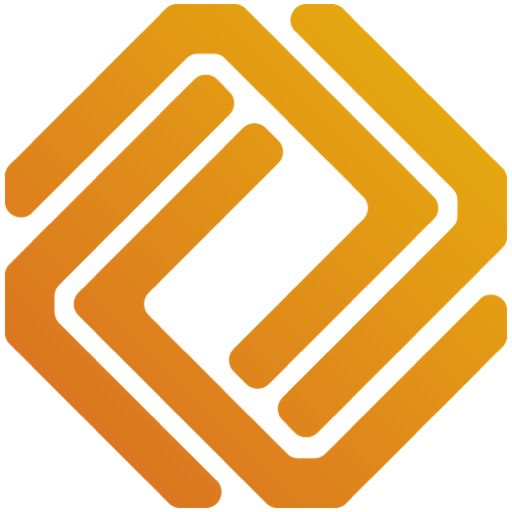
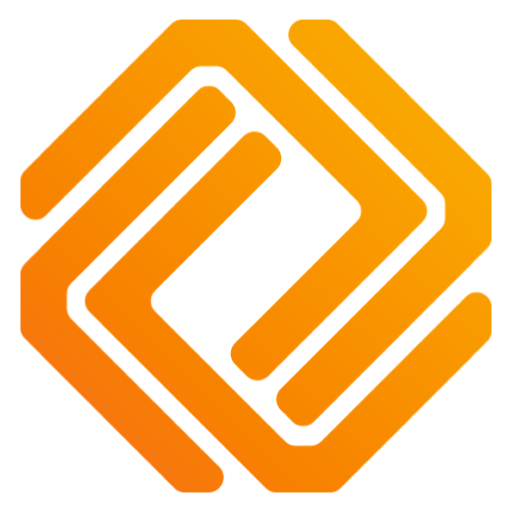
feat: icone isolado no topo, icones adaptativos modo claro/escuro para PWA e notificacoes web em PNG

diff --git a/index.html b/index.html
@@ -9,10 +9,17 @@
     <meta name="apple-mobile-web-app-capable" content="yes" />
     <meta name="apple-mobile-web-app-status-bar-style" content="black-translucent" />
     <title>CONSTRUTEC ERP — Construção e reformas em geral</title>
-    <link rel="icon" type="image/png" sizes="32x32" href="/favicon-32x32.png" />
-    <link rel="icon" type="image/png" sizes="192x192" href="/icon-192.png" />
-    <link rel="apple-touch-icon" sizes="180x180" href="/apple-touch-icon.png" />
+    <!-- Favicons adaptativos para navegadores (Safari, Chrome, Firefox) -->
+    <link rel="icon" id="favicon-32" type="image/png" sizes="32x32" href="/favicon-dark-32x32.png" />
+    <link rel="icon" type="image/png" sizes="32x32" href="/favicon-light-32x32.png" media="(prefers-color-scheme: light)" />
+    <link rel="icon" type="image/png" sizes="32x32" href="/favicon-dark-32x32.png" media="(prefers-color-scheme: dark)" />
+    <link rel="icon" type="image/png" sizes="192x192" href="/icon-192-transparent.png" />
     <link rel="icon" type="image/svg+xml" href="/favicon.svg" />
+
+    <!-- Ícone PWA e Apple Touch Icon adaptativo (Branco no Modo Claro / Preto no Modo Escuro) -->
+    <link rel="apple-touch-icon" id="apple-touch-icon" sizes="180x180" href="/apple-touch-icon-dark.png" />
+    <link rel="apple-touch-icon" sizes="180x180" href="/apple-touch-icon-light.png" media="(prefers-color-scheme: light)" />
+    <link rel="apple-touch-icon" sizes="180x180" href="/apple-touch-icon-dark.png" media="(prefers-color-scheme: dark)" />
     <link rel="manifest" href="/manifest.json" />
     <link rel="preconnect" href="https://fonts.googleapis.com" />
     <link rel="preconnect" href="https://fonts.gstatic.com" crossorigin />
@@ -36,7 +43,15 @@
           }
           var metaTheme = document.querySelector('meta[name="theme-color"]');
           if (metaTheme) {
-            metaTheme.content = dark ? '#111A24' : '#F8FAFC';
+            metaTheme.content = dark ? '#111A24' : '#FFFFFF';
+          }
+          var appleTouch = document.getElementById('apple-touch-icon');
+          if (appleTouch) {
+            appleTouch.href = dark ? '/apple-touch-icon-dark.png' : '/apple-touch-icon-light.png';
+          }
+          var fav32 = document.getElementById('favicon-32');
+          if (fav32) {
+            fav32.href = dark ? '/favicon-dark-32x32.png' : '/favicon-light-32x32.png';
           }
         } catch (e) {}
       }

diff --git a/src/lib/notifications.ts b/src/lib/notifications.ts
@@ -19,17 +19,27 @@ export const requestNotificationPermission = async (): Promise<NotificationPermi
   }
 };
 
+const getNotificationAssets = () => {
+  const origin = typeof window !== 'undefined' && window.location?.origin ? window.location.origin : '';
+  return {
+    icon: origin ? `${origin}/icon-192-transparent.png` : '/icon-192-transparent.png',
+    badge: origin ? `${origin}/favicon-32x32.png` : '/favicon-32x32.png',
+  };
+};
+
 export const sendNotification = async (title: string, options?: NotificationOptions) => {
   if (!isNotificationSupported()) return;
   if (Notification.permission !== 'granted') return;
+
+  const { icon, badge } = getNotificationAssets();
 
   try {
     if ('serviceWorker' in navigator) {
       const reg = await navigator.serviceWorker.ready;
       if (reg && reg.showNotification) {
         await reg.showNotification(title, {
-          icon: '/favicon.svg',
-          badge: '/favicon.svg',
+          icon,
+          badge,
           ...options,
         });
         return;
@@ -41,7 +51,8 @@ export const sendNotification = async (title: string, options?: NotificationOpti
 
   try {
     new Notification(title, {
-      icon: '/favicon.svg',
+      icon,
+      badge,
       ...options,
     });
   } catch (e) {

diff --git a/src/hooks/index.ts b/src/hooks/index.ts
@@ -18,7 +18,18 @@ export function useThemeEffect() {
       root.classList.add(dark ? 'dark' : 'light');
       const meta = document.querySelector<HTMLMetaElement>('meta[name="color-scheme"]');
       if (meta) meta.content = theme === 'system' ? 'light dark' : theme;
-      document.querySelector<HTMLMetaElement>('meta[name="theme-color"]')?.setAttribute('content', dark ? '#111A24' : '#F8FAFC');
+      const themeColor = dark ? '#111A24' : '#FFFFFF';
+      document.querySelector<HTMLMetaElement>('meta[name="theme-color"]')?.setAttribute('content', themeColor);
+
+      const appleIcon = document.getElementById('apple-touch-icon') || document.querySelector<HTMLLinkElement>('link[rel="apple-touch-icon"]');
+      if (appleIcon) {
+        appleIcon.setAttribute('href', dark ? '/apple-touch-icon-dark.png' : '/apple-touch-icon-light.png');
+      }
+
+      const fav32 = document.getElementById('favicon-32') || document.querySelector<HTMLLinkElement>('link[rel="icon"][sizes="32x32"]');
+      if (fav32) {
+        fav32.setAttribute('href', dark ? '/favicon-dark-32x32.png' : '/favicon-light-32x32.png');
+      }
     };
     apply();
     if (mq.addEventListener) {

diff --git a/src/components/layout/AppShell.tsx b/src/components/layout/AppShell.tsx
@@ -65,9 +65,13 @@ function Topbar() {
         <Menu className="size-5" />
       </button>
 
-      {/* Logo visível em telas mobile/tablet */}
-      <div className="lg:hidden flex items-center">
-        <Logo size="sm" />
+      {/* Ícone oficial CONSTRUTEC isolado (sem texto escrito) no topo */}
+      <div className="flex items-center">
+        <img
+          src="/logo-emblema-trim.png"
+          alt="CONSTRUTEC"
+          className="size-8 object-contain shrink-0 select-none"
+        />
       </div>
 
       {/* Título e data da página no desktop */}
@@ -77,7 +81,7 @@ function Topbar() {
       </div>
 
       {/* Título sucinto no tablet/mobile */}
-      <div className="hidden sm:block lg:hidden min-w-0 flex-1 truncate text-xs font-semibold text-fg">
+      <div className="min-w-0 flex-1 truncate text-xs font-semibold text-fg lg:hidden">
         {atual?.label}
       </div>
 
